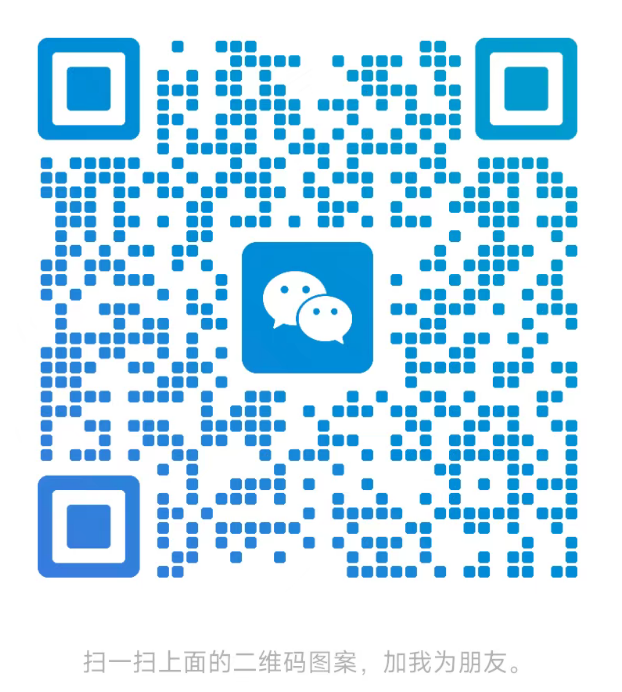
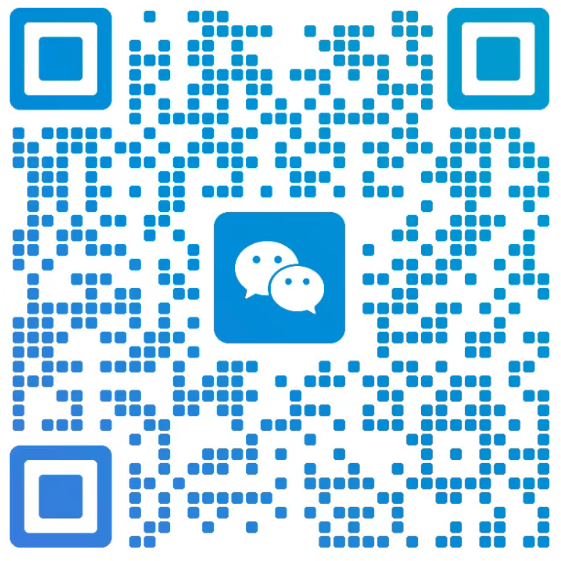
fix: 1.二维码用真实图片 2.对话框加大 3.addMessage改async确保写入完成

diff --git a/src/components/sidebar.tsx b/src/components/sidebar.tsx
@@ -72,8 +72,8 @@ function ContactChatDialog({
   return (
     <div className="fixed inset-0 bg-black/50 z-50 flex items-center justify-center p-4" onClick={onClose}>
       <div
-        className="bg-[var(--card)] rounded-2xl w-full max-w-md shadow-xl animate-fade-in flex flex-col"
-        style={{ height: "min(520px, 80vh)" }}
+        className="bg-[var(--card)] rounded-2xl w-full max-w-lg shadow-xl animate-fade-in flex flex-col"
+        style={{ height: "min(600px, 85vh)" }}
         onClick={(e) => e.stopPropagation()}
       >
         {/* Header */}
@@ -94,19 +94,21 @@ function ContactChatDialog({
         <div className="flex-1 overflow-y-auto px-4 py-3 space-y-2.5">
           {/* 微信联系方式提示 */}
           <div className="bg-blue-50 dark:bg-blue-900/20 border border-blue-200 dark:border-blue-800 rounded-xl p-3 mb-3">
-            <div className="flex items-start gap-3">
-              <div className="flex-shrink-0 w-16 h-16 bg-gray-200 dark:bg-gray-700 rounded-lg flex items-center justify-center text-xs text-gray-500">
-                二维码
-              </div>
+            <div className="flex items-center gap-4">
+              <img
+                src="/wechat-qr.png"
+                alt="客服微信二维码"
+                className="flex-shrink-0 w-24 h-24 rounded-lg object-contain"
+              />
               <div className="flex-1 min-w-0">
-                <p className="text-sm font-medium text-blue-900 dark:text-blue-100 mb-1">
+                <p className="text-sm font-semibold text-blue-900 dark:text-blue-100 mb-1">
                   客服微信
                 </p>
-                <p className="text-xs text-blue-700 dark:text-blue-300 mb-1">
+                <p className="text-sm text-blue-700 dark:text-blue-300 mb-1">
                   微信号：jryg8686
                 </p>
                 <p className="text-xs text-blue-600 dark:text-blue-400">
-                  如需即时回复，请添加客服微信
+                  扫码或搜索微信号添加客服
                 </p>
               </div>
             </div>

diff --git a/src/lib/message-store.ts b/src/lib/message-store.ts
@@ -35,8 +35,8 @@ function generateMessageId(): string {
   return `${Date.now()}-${Math.random().toString(36).slice(2)}`;
 }
 
-// 添加消息
-export function addMessage(userId: string, from: "user" | "admin", content: string): ContactMessage {
+// 添加消息（异步，等待 Redis 写入完成）
+export async function addMessage(userId: string, from: "user" | "admin", content: string): Promise<ContactMessage> {
   const msg: ContactMessage = {
     id: generateMessageId(),
     from,
@@ -45,30 +45,27 @@ export function addMessage(userId: string, from: "user" | "admin", content: stri
     read: from === "admin",
   };
 
-  // 异步保存到 Redis
-  (async () => {
-    try {
-      const redis = getRedis();
-      const threadKey = `${THREAD_PREFIX}${userId}`;
-      const existing = await redis.get<UserThread>(threadKey);
-      
-      const thread: UserThread = {
-        userId,
-        messages: existing ? [...existing.messages, msg] : [msg],
-        lastActivity: msg.timestamp,
-      };
+  try {
+    const redis = getRedis();
+    const threadKey = `${THREAD_PREFIX}${userId}`;
+    const existing = await redis.get<UserThread>(threadKey);
+    
+    const thread: UserThread = {
+      userId,
+      messages: existing ? [...existing.messages, msg] : [msg],
+      lastActivity: msg.timestamp,
+    };
 
-      await redis.set(threadKey, thread);
-      
-      const allThreads = await redis.get<string[]>(ALL_THREADS_KEY) || [];
-      if (!allThreads.includes(userId)) {
-        allThreads.push(userId);
-        await redis.set(ALL_THREADS_KEY, allThreads);
-      }
-    } catch (err) {
-      console.error("[Redis addMessage error]", err);
+    await redis.set(threadKey, thread);
+    
+    const allThreads = await redis.get<string[]>(ALL_THREADS_KEY) || [];
+    if (!allThreads.includes(userId)) {
+      allThreads.push(userId);
+      await redis.set(ALL_THREADS_KEY, allThreads);
     }
-  })();
+  } catch (err) {
+    console.error("[Redis addMessage error]", err);
+  }
 
   return msg;
 }

diff --git a/src/app/api/contact/route.ts b/src/app/api/contact/route.ts
@@ -43,7 +43,7 @@ export async function POST(req: NextRequest) {
       if (adminKey?.trim() !== ADMIN_KEY) {
         return NextResponse.json({ error: "无权限" }, { status: 403 });
       }
-      const msg = addMessage(userId, "admin", message.trim());
+      const msg = await addMessage(userId, "admin", message.trim());
       return NextResponse.json({ success: true, message: msg });
     }
 
@@ -61,7 +61,7 @@ export async function POST(req: NextRequest) {
       return NextResponse.json({ error: "缺少用户ID" }, { status: 400 });
     }
 
-    const msg = addMessage(userId, "user", message.trim());
+    const msg = await addMessage(userId, "user", message.trim());
 
     // Webhook 通知管理员
     const webhookUrl = process.env.CONTACT_WEBHOOK_URL;
